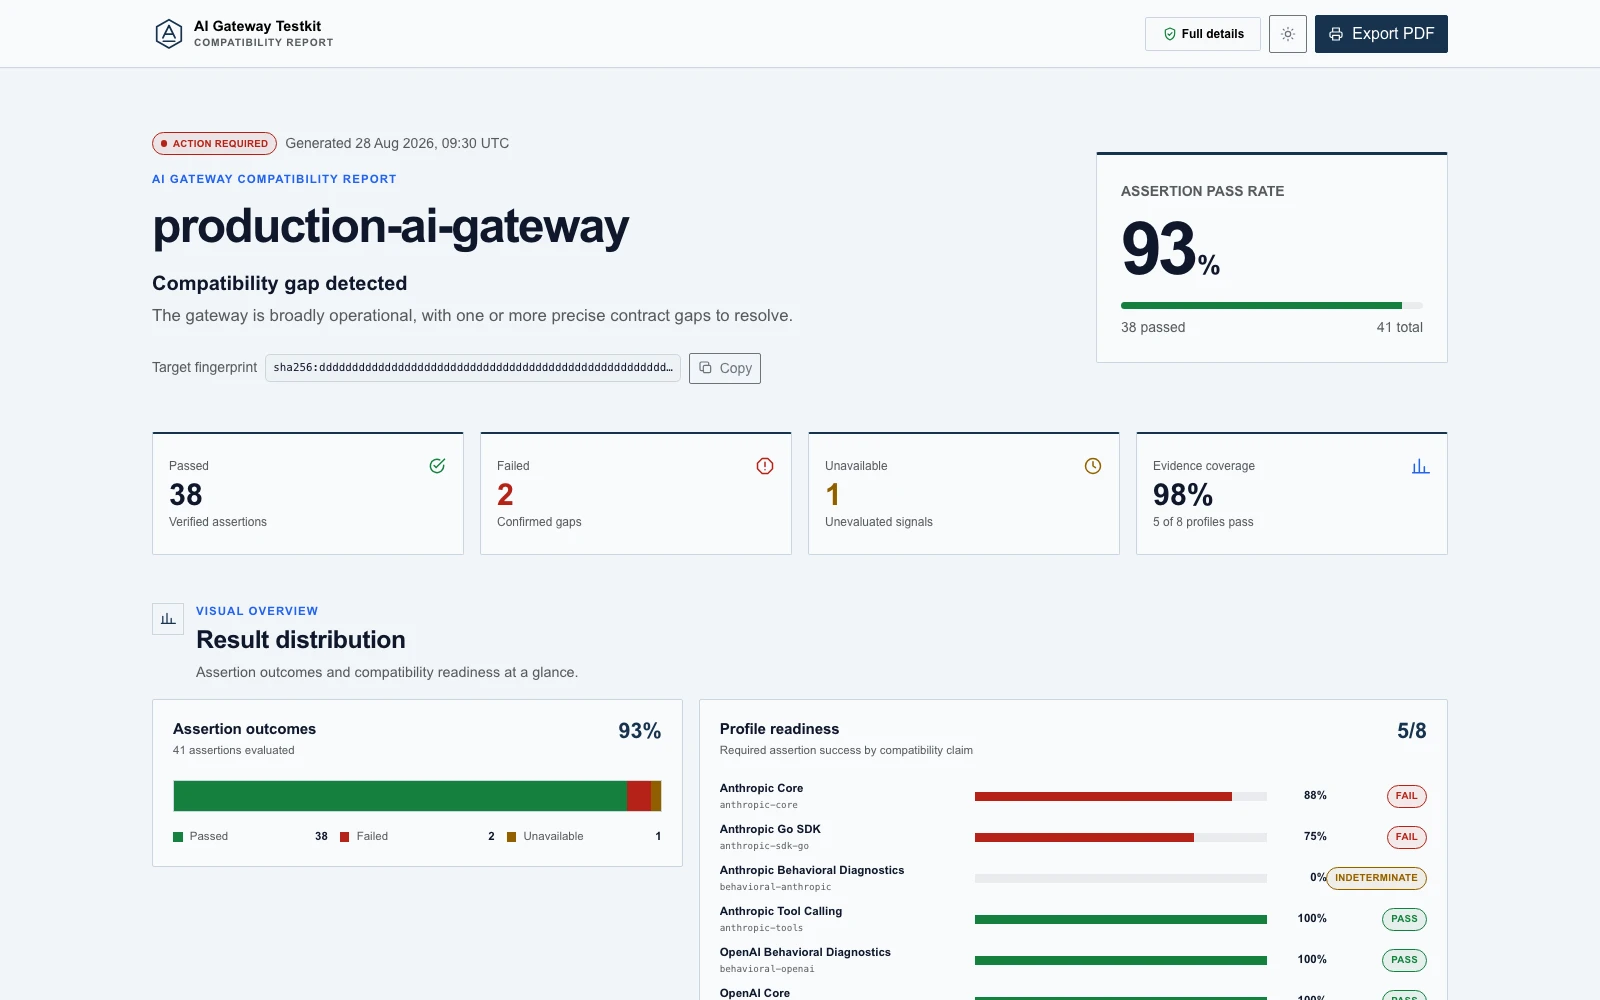
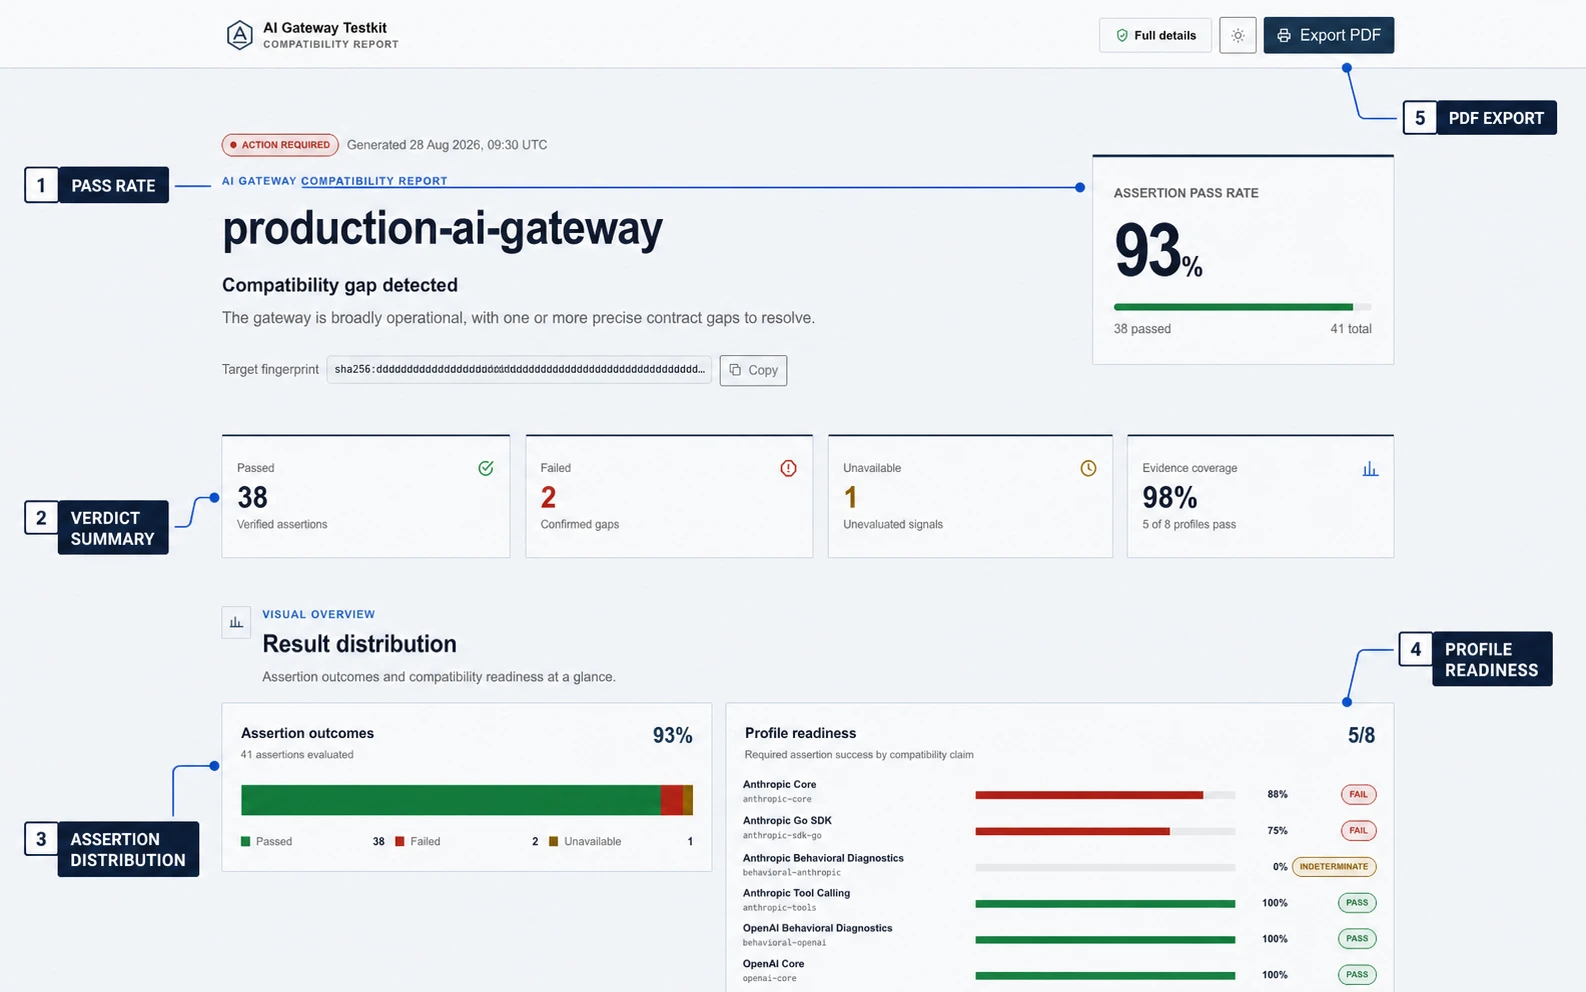
docs: annotate README report features

diff --git a/README.md b/README.md
@@ -8,7 +8,7 @@
 
 AI Gateway Testkit (`agtk`) is an open-source, black-box conformance and regression runner for Anthropic- and OpenAI-compatible gateways. It turns compatibility claims into repeatable test profiles, stable assertion IDs, CI-friendly verdicts, and canonical reports you can compare or safely share.
 
-![AI Gateway Testkit dashboard visualizing gateway inputs, compatibility checks, readiness charts, and verified results](docs/assets/ai-gateway-testkit-hero.webp)
+![Annotated AI Gateway Testkit report highlighting pass rate, verdict summary, assertion distribution, profile readiness, and PDF export](docs/assets/ai-gateway-testkit-hero.webp)
 
 ```text
 gateway target + compatibility profile
